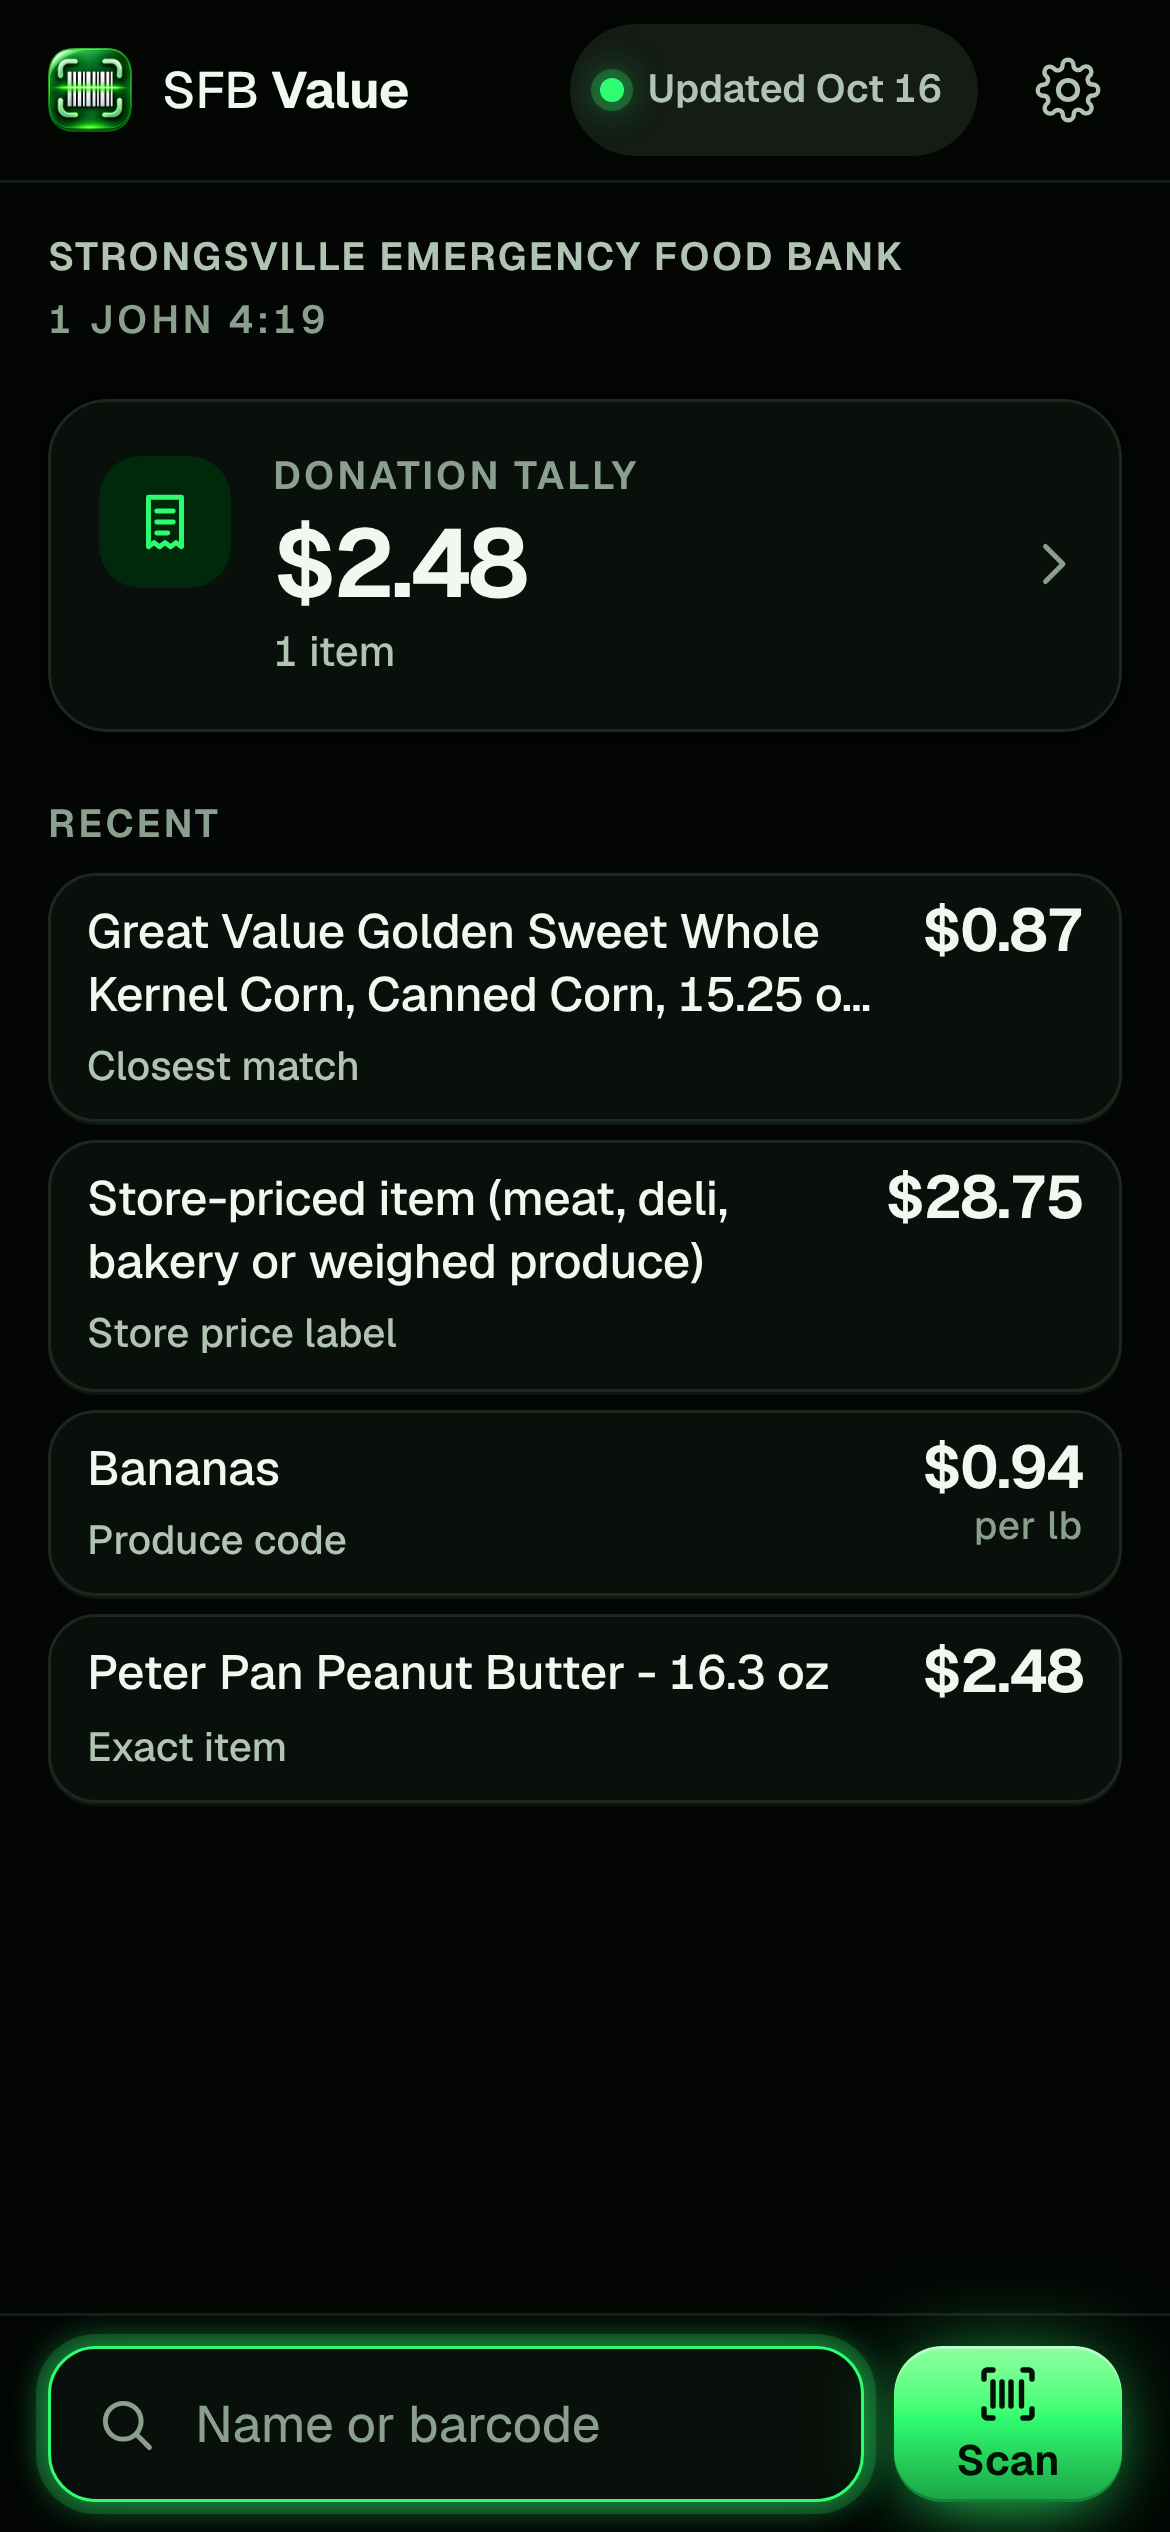
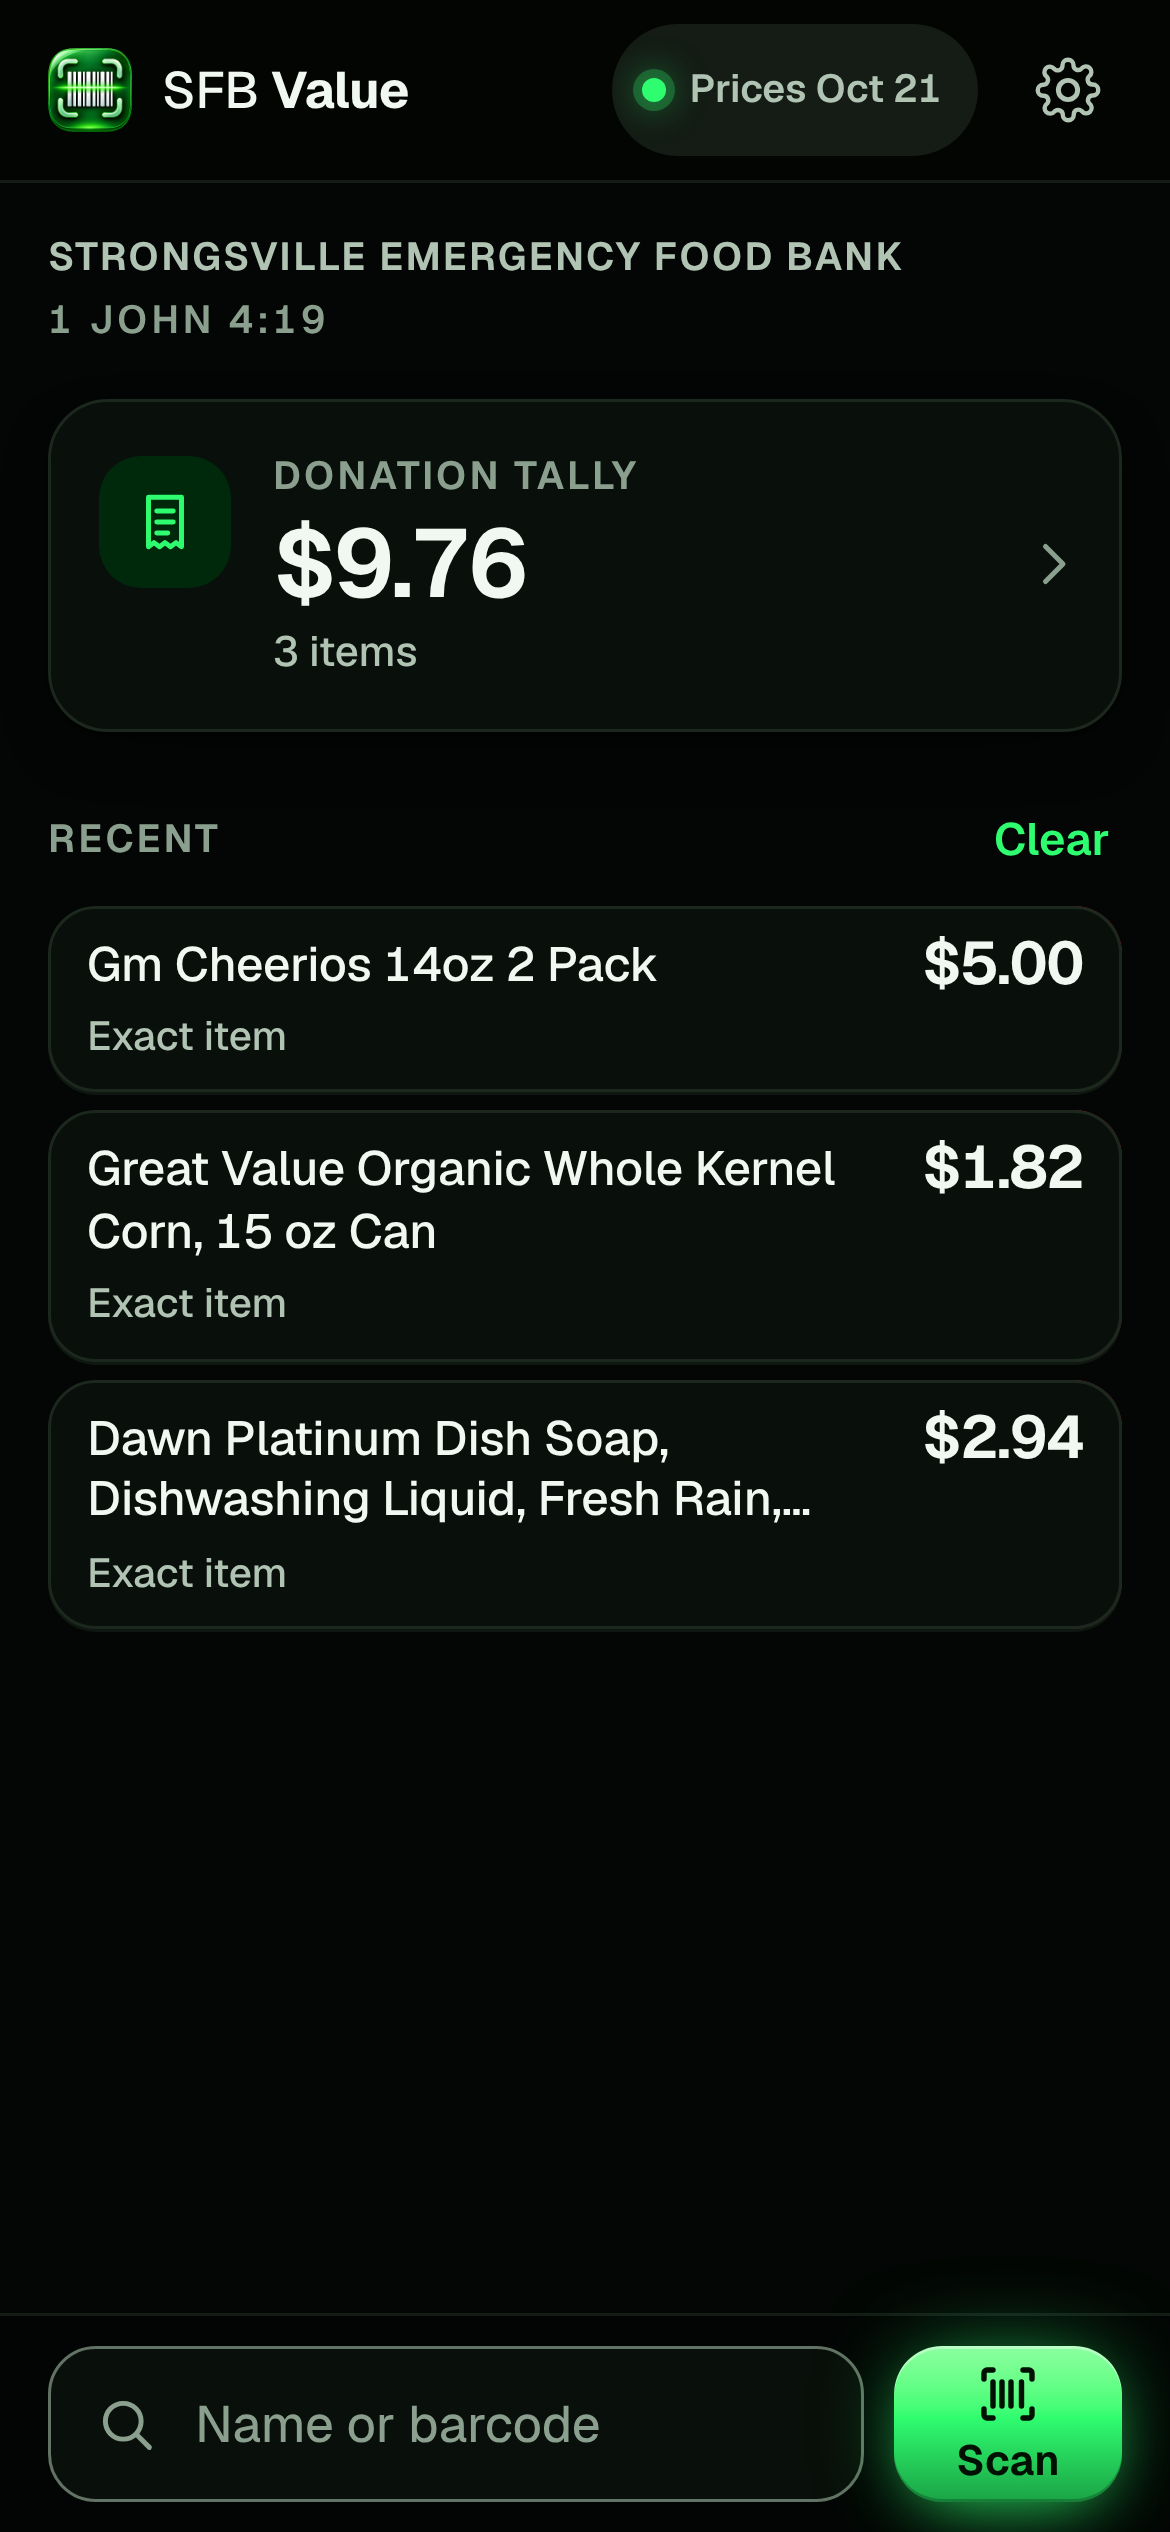
README: current facts, and the four screens retaken in dark mode, two per row
The screens were from 2026-10-16 (old header, "Updated Oct 16"). They
are retaken from the live site with the real price list in dark mode
(app/tools/readme-shots.mjs) and shown two per row; the stale light set
is removed. Corrected: the live check compares the item on screen with
Walmart's current price; the launch screen, the dark setting and the
iPhone camera kept ready are named; the browser checks are listed;
Manrope joins Geist under the licences; the status no longer lists the
operator steps as pending and names the open Office Supplies hold.
READINESS marks the operator steps done; DECISIONS records it all.

Claude-Session: https://claude.ai/code/session_01EybCXPyBVKjnXR1rb6z3hB

diff --git a/README.md b/README.md
@@ -5,12 +5,26 @@ Built for the volunteers of the Strongsville Emergency Food Bank (Strongsville, 
 receive. Prices come from the Walmart I/O Affiliate API and, where the Strongsville Supercenter reports one, that store's
 own shelf price.
 
-<p>
-  <img src="docs/screens/light-390x844-10-home-recent.png" width="180" alt="Home screen: the food bank, the donation tally and Recent">
-  <img src="docs/screens/light-390x844-2-results.png" width="180" alt="Search results: brand, size, pack and price for each match">
-  <img src="docs/screens/light-390x844-3-sheet.png" width="180" alt="Item sheet: the price, the exact item, the price date and Add to tally">
-  <img src="docs/screens/light-390x844-8-tally.png" width="180" alt="Tally: every item added, the total, and Share">
-</p>
+<table>
+  <tr>
+    <th>Home</th>
+    <th>Search results</th>
+  </tr>
+  <tr>
+    <td><img src="docs/screens/dark-390x844-10-home-recent.png" width="320" alt="Home screen: the food bank, the donation tally and Recent"></td>
+    <td><img src="docs/screens/dark-390x844-2-results.png" width="320" alt="Search results: brand, size and price for each match, the best match by the search box"></td>
+  </tr>
+  <tr>
+    <th>The item</th>
+    <th>The tally</th>
+  </tr>
+  <tr>
+    <td><img src="docs/screens/dark-390x844-3-sheet.png" width="320" alt="Item sheet: the Strongsville store's shelf price and its date, the live check, the quantity and Add to tally"></td>
+    <td><img src="docs/screens/dark-390x844-8-tally.png" width="320" alt="Tally: every item added, the total, and Share"></td>
+  </tr>
+</table>
+
+<sub>The live app on an iPhone 15/16-sized screen in dark mode, with the real price list (<code>app/tools/readme-shots.mjs</code>).</sub>
 
 ## How volunteers use it
 
@@ -22,12 +36,16 @@ own shelf price.
 The app never answers with a blank. A barcode finds the exact item (retired barcodes included, since donors give old
 stock); a store-printed price label is decoded on the spot; a produce sticker gives the price per pound; a barcode Walmart
 does not sell is valued at the closest Walmart equivalent and labelled as such; a typed search that has to drop a word says
-which one. When the phone is online, an unknown barcode is also checked live. Every result says where its price comes from:
-prices from the price list carry its date, a live price the time it was checked, a store label its own printed price.
+which one. When the phone is online, the item on screen is also checked against Walmart's current price (a switch in
+Settings turns this off), and a barcode the price list does not know is looked up live. Every result says where its price
+comes from: prices from the price list carry its date, a live price the time it was checked, a store label its own printed
+price.
 
 It is a progressive web app: volunteers open it once, add it to the Home Screen (iPhone: Share › Add to Home Screen;
 Android: the browser's Install button), and it then works offline on the phone already in their hand, iPhone (iOS 16.4 or
-later) or Android (Chrome 111 or later). There is nothing to install from an app store and nothing to pay for; a Google
+later) or Android (Chrome 111 or later). It opens on its own launch screen, follows the phone's light or dark setting (or
+the one chosen in Settings), and on an iPhone keeps the camera ready for four hours after a scan so the phone asks for
+camera access once per shift rather than at every scan. There is nothing to install from an app store and nothing to pay for; a Google
 Play listing of the same app is possible (docs/RUNBOOK.md "Google Play").
 
 ## What is inside
@@ -72,8 +90,10 @@ pip install -r requirements.txt
 python -m unittest discover tests          # crawler, gates, cadence, review, orchestration
 
 cd app && npm install
-npm test                                   # barcode maths, tokenizer, resolution, the Worker's routes
+npm test                                   # barcode maths, tokenizer, resolution, the service worker, the Worker's routes
 npm run fixture && npm run build && npm run serve   # the app on a synthetic 760k-item snapshot at http://127.0.0.1:8787/
+node tools/ui-check.mjs                    # layout and behaviour rules in a browser; also scroll-check.mjs and
+                                           # keyboard-check.mjs (both with --browser webkit), as CI runs them
 ```
 
 The crawler also runs locally with `WM_CONSUMER_ID` and `WM_PRIVATE_KEY` set and `SFB_STORE` pointing at a checkout of the
@@ -82,15 +102,19 @@ Actions secrets, Cloudflare Worker secrets and the owner's password manager.
 
 ## Status
 
-The first real snapshot is published and the app serves it. Remaining before volunteers install it: the food bank's own
-address for the app, a test on real phones from that address, and the two one-time operator steps listed in
-[READINESS](docs/READINESS.md).
+The real price list is published (about 2.4 million listings, prices of October 21, 2026) and the app serves it. The
+one-time operator steps are done: the schedule watchdog has its GitHub token and the sample review has its Anthropic key.
+Remaining before volunteers install it: the food bank's own address for the app, a test on real phones from that address,
+and a named person who receives the alerts after the owner ([READINESS](docs/READINESS.md)).
+
+Open now: the Office Supplies refresh of October 21 is held by its gates (issue #51). While a refresh is held the pipeline
+starts nothing new, so it needs the owner's decision before the next monthly refresh comes due.
 
 ## License
 
 [MIT](LICENSE). Use it for your own food bank; see "Another food bank" in [docs/READINESS.md](docs/READINESS.md) for
-what to change. Bundled third-party components keep their own licences (zxing-wasm MIT, wrapping zxing-cpp Apache-2.0; Geist OFL); the Open
-Food Facts data is ODbL.
+what to change. Bundled third-party components keep their own licences (zxing-wasm MIT, wrapping zxing-cpp Apache-2.0; Geist and Manrope
+OFL); the Open Food Facts data is ODbL.
 
 ## Acknowledgements
 
@@ -99,4 +123,5 @@ Prices from the [Walmart I/O Affiliate API](https://walmart.io/). Barcodes Walma
 Service; public domain), [Open Food Facts](https://world.openfoodfacts.org/), [Open Beauty Facts](https://world.openbeautyfacts.org/) and
 [Open Products Facts](https://world.openproductsfacts.org/) (ODbL). The scanner uses
 [zxing-wasm](https://github.com/Sec-ant/zxing-wasm) (MIT), a WebAssembly build of [zxing-cpp](https://github.com/zxing-cpp/zxing-cpp) (Apache-2.0), where the browser has no barcode detector of its own; the
-typeface is [Geist](https://vercel.com/font) (OFL). Built for and with the Strongsville Emergency Food Bank.
+typefaces are [Geist](https://vercel.com/font) and, for the launch screen's wordmark,
+[Manrope](https://fonts.google.com/specimen/Manrope) (both OFL). Built for and with the Strongsville Emergency Food Bank.

diff --git a/docs/DECISIONS.md b/docs/DECISIONS.md
@@ -165,6 +165,8 @@ Dated, current decisions; this file wins on conflict. A later entry that replace
 
 - 2026-10-23 — The keyboard, audited to the bottom (owner's iPhone 16: the search bar floating above the keyboard with a band under it, or lost under it; the home panned under the header; results above the screen; typing, backspacing and dragging moving the whole screen). Three audits ran in parallel: every viewport, keyboard, focus and scroll dependency in the app (62 rules and 40 listeners, each judged under a pan, a missed event and a programmatic scroll); the results pipeline (one wholesale render and a scroll reset per keystroke, a blur mid-drag, a window scroll on every return home); and the iOS facts from WebKit's own bugs (iOS never resizes the layout viewport for the keyboard and will not until Safari ships `interactive-widget`, which WebKit trunk has and no Safari release does; the visual viewport shrinks and is panned to reveal the field, and a drag pans it further; `window.scrollY` and `scrollTo` are the visual viewport's in WebKit; resize events arrive late, in threes, or not at all, worst in a Home Screen app; iOS 26.0 left a 24 px pan behind after the keyboard closed). The design that came out, each part checked against a scripted iOS in `app/tools/keyboard-check.mjs` (ten scenarios, now in CI in Chromium and WebKit): the keyboard is a fact of geometry (visible height short by 100 px or more), read every frame through the animation and every half second while typing; both panels are fixed against the visible area and the document never scrolls; the pan is followed only while the keyboard moves and undone once it settles, with the layout already written for pan 0 so nothing flashes; the browser's pan gesture is off on everything that does not scroll while the keyboard is up; the dock's home-indicator padding is keyed on the keyboard, not the inset; the dock has no transition; a search runs once per frame; a render waits for a finger to lift and a list to stop; the top-most visible row is held when the results box changes height; a return to home scrolls its own panel; a pending price list waits for the keyboard to go; the double-tap guard ignores the end of a flick; the results panel is a sibling of the home panel. What only the phone can confirm, and how: Settings › About › Diagnostics keeps the last 24 keyboard readings ("kb … pan … pan undone"); a trace with the pan going back to 0 after every open and no reading with the dock lost is the proof. The one assumption not covered by a WebKit source: that `touch-action: none` stops a drag from panning the visual viewport (reported by practitioners; if it does not, the undo still catches the pan at the end of the drag).
 
+- 2026-10-23 — README brought up to date (owner: "ensure it is correctly displaying the most current information"; "use screenshots from dark mode", "in rows of 2"). The screens were from 2026-10-16 (the old header and "Updated Oct 16"); they are retaken in dark mode from the live site with the real price list, four of them in a two-by-two table, by `app/tools/readme-shots.mjs`, and the stale light set is removed. Also corrected: the live check compares the item on screen with Walmart's current price, not only unknown barcodes; the launch screen, the app's own dark setting and the iPhone camera kept ready are named; the browser checks are listed with the local commands; Manrope joins Geist under the licences; the status no longer lists the one-time operator steps as pending (the watchdog dispatches the pipeline, the sample review ran on 2026-10-22) and names the open hold. The two `[gates-hold]` issues were one hold reported twice: #49 closed as a duplicate, #51 stays open until the owner decides (approve, or a rule for the Office Supplies names), because a held refresh stops the pipeline from starting anything else, the next monthly refresh included.
+
 ## Open
 
 - 2026-10-07 — UPC-E: `gtin14()` should expand 8-digit codes starting 0/1 to UPC-A when the UPC-E check digit validates (proposed). Done 2026-10-09 (same expansion as the app's barcode.js).

diff --git a/docs/READINESS.md b/docs/READINESS.md
@@ -21,8 +21,9 @@ through `pipeline-alert` issues.
 ### Before volunteers install it
 1. **The app's permanent address** (`value.strongsvillefoodbank.org`, pending the food bank's approval, else a domain of the
    owner's). Volunteers must install from the final address only: offline data does not survive an address change.
-2. **One-time operator steps**: the Worker secret `GH_DISPATCH_TOKEN` for the schedule watchdog, and a small Anthropic credit
-   load for the sample review (RUNBOOK).
+2. ~~**One-time operator steps**: the Worker secret `GH_DISPATCH_TOKEN` for the schedule watchdog, and a small Anthropic credit
+   load for the sample review (RUNBOOK).~~ Done: the watchdog dispatches the pipeline every hour it sits idle, and the sample
+   review ran on 2026-10-22 (checked 2026-10-23).
 3. **A test on real phones** from the final address: an older iPhone and an Android phone, installed to the Home Screen,
    airplane mode, one shift of scanning.
 4. **Who receives alerts after the owner**: a named person on the repository's issue notifications and the one-page alert

diff --git a/app/README.md b/app/README.md
@@ -28,6 +28,7 @@ app/
     serve.mjs        local static server that mirrors production headers
     measure.mjs      the performance numbers below (Playwright, 4× CPU throttle, fake camera); --browser webkit for iPhone's engine
     shots.mjs        phone-size screenshots (light/dark) + accessibility audit; --browser webkit too
+    readme-shots.mjs the README's four dark screens from the live site and its real price list (into docs/screens)
     scroll-check.mjs the scrolling rules (best match by the search box, wheel, keyboard pan, sheets); --browser webkit too
     ui-check.mjs     layout, price-status, walkthrough, accessibility and design rules, one id per defect (docs/UI-AUDIT.md)
     icon/make_splash.py   the iOS launch images: the page's boot screen rendered at every screen size by icon/render-splash.mjs (Chromium), Floyd-Steinberg dithered to 256 colours

diff --git a/docs/UI-AUDIT.md b/docs/UI-AUDIT.md
@@ -169,4 +169,4 @@ These behaviours depend on iOS itself and cannot be produced in Chromium:
 
 ## Screens
 
-`docs/screens/` holds the current screenshots (`node tools/shots.mjs`). They also back the README images.
+`docs/screens/` holds the README's four screens, dark, taken from the live site with the real price list (`node tools/readme-shots.mjs`, run in `app/`). The full set at every size, light and dark, with the accessibility audit, comes from `node tools/shots.mjs` into `app/build/shots`.
